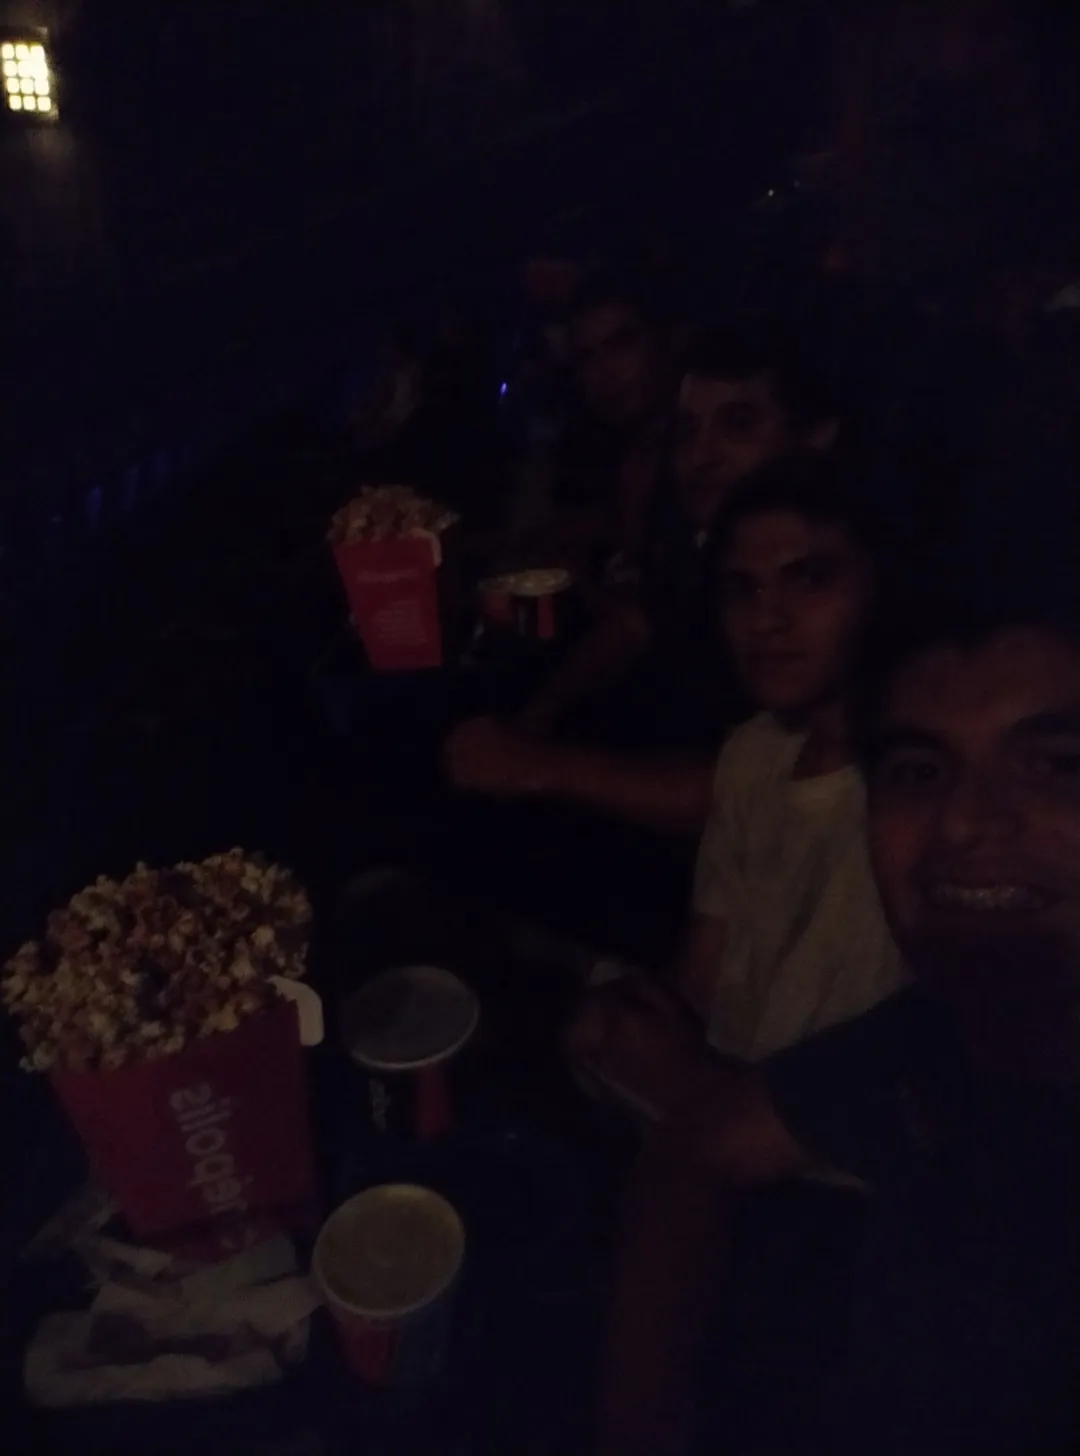
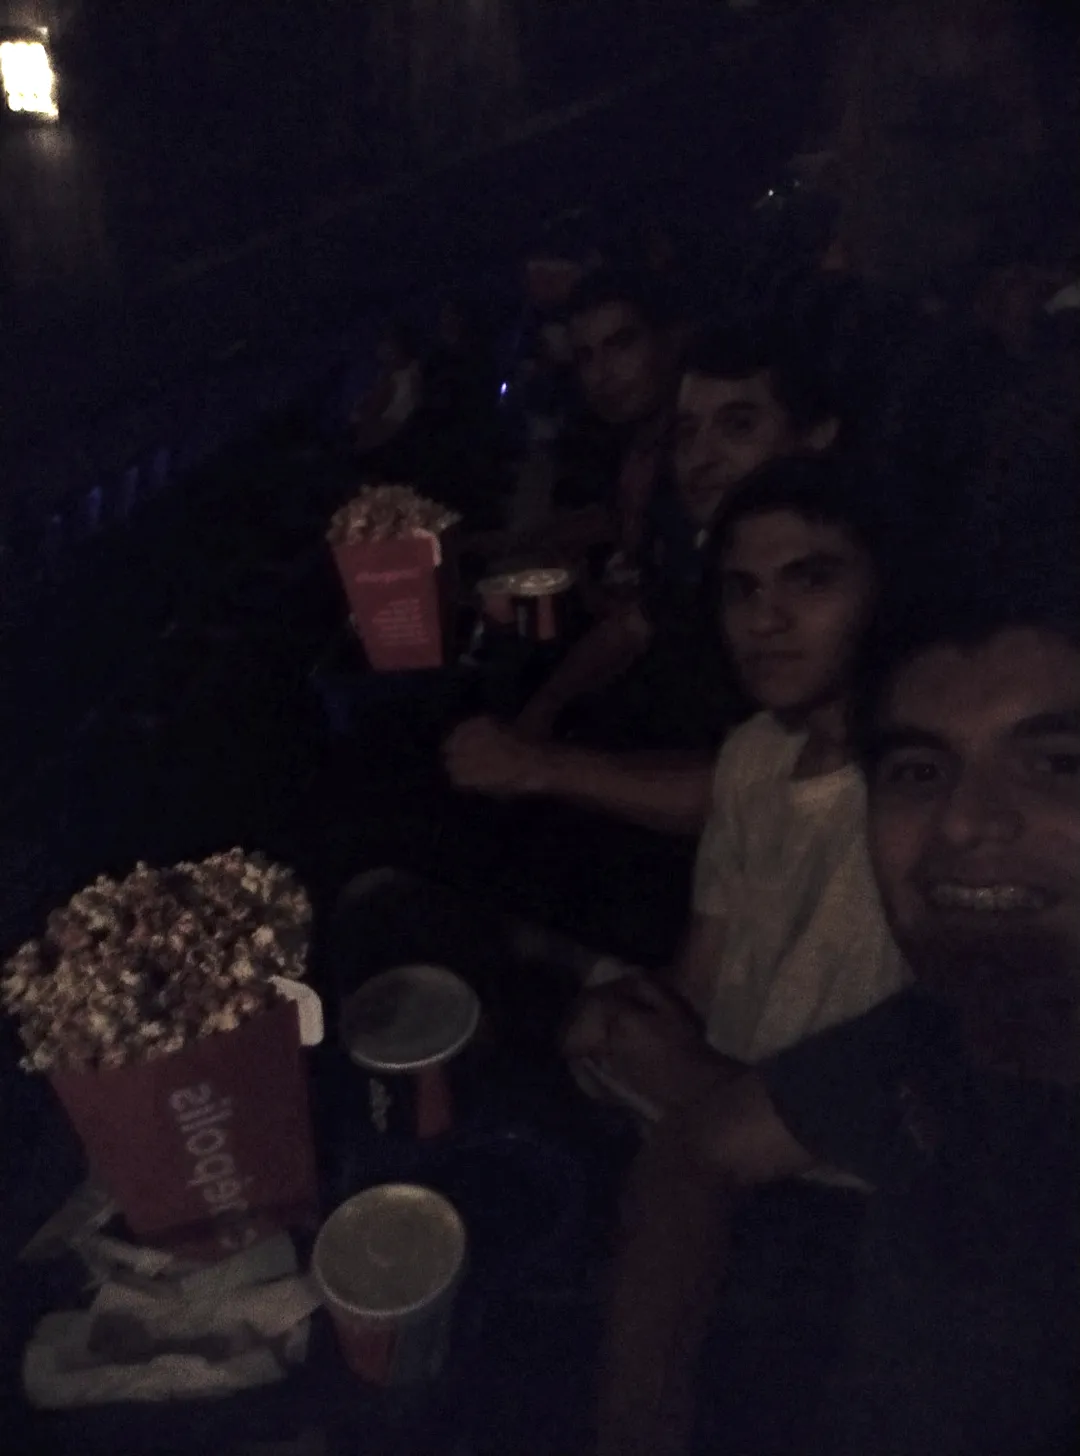
feat: ordenar el recorrido en capítulos narrativos con cierre en la U

diff --git a/src/data/guion.ts b/src/data/guion.ts
@@ -9,25 +9,34 @@ export type Escena =
 // El orden de este arreglo es el orden del recorrido.
 // Editar AQUÍ no requiere tocar componentes.
 export const guion: Escena[] = [
+  // ── Capítulo 1: Celebrar juntos ──
   { tipo: "frase", texto: "Aunque hoy estés lejos, toda tu familia está contigo." },
-  { tipo: "foto", imagen: "foto-01.webp" },
-  { tipo: "foto", imagen: "foto-02.webp" },
+  { tipo: "foto", imagen: "foto-02.webp", frase: "Celebrar contigo siempre fue lo mejor." },
   { tipo: "foto", imagen: "foto-03.webp" },
-  { tipo: "foto", imagen: "foto-04.webp" },
-  { tipo: "foto", imagen: "foto-05.webp" },
-  { tipo: "frase", texto: "Cada recuerdo contigo es un regalo." },
   { tipo: "foto", imagen: "foto-06.webp" },
-  { tipo: "foto", imagen: "foto-07.webp" },
-  { tipo: "foto", imagen: "foto-08.webp" },
-  { tipo: "video", video: "video-01.mp4", poster: "video-01.webp" },
+  { tipo: "foto", imagen: "foto-04.webp", frase: "Tus tres hijos, siempre a tu lado." },
+  { tipo: "foto", imagen: "foto-05.webp" },
+
+  // ── Capítulo 2: Lo cotidiano ──
+  { tipo: "frase", texto: "Cada momento contigo es un regalo." },
+  { tipo: "foto", imagen: "foto-07.webp", frase: "Hasta una ida al cine contigo es una fiesta." },
   { tipo: "foto", imagen: "foto-09.webp" },
+  { tipo: "video", video: "video-01.mp4", poster: "video-01.webp" },
+
+  // ── Capítulo 3: Las aventuras ──
+  { tipo: "frase", texto: "Y cuántos caminos recorrimos juntos…" },
   { tipo: "foto", imagen: "foto-10.webp" },
-  { tipo: "frase", texto: "La distancia no borra lo que somos: tu familia." },
   { tipo: "foto", imagen: "foto-11.webp" },
   { tipo: "foto", imagen: "foto-12.webp" },
   { tipo: "foto", imagen: "foto-13.webp" },
   { tipo: "foto", imagen: "foto-14.webp" },
-  { tipo: "foto", imagen: "foto-15.webp", frase: "Gracias por tanto, papá." },
+
+  // ── Capítulo 4: La pasión que nos diste ──
+  { tipo: "frase", texto: "Y nos heredaste una pasión que nos une para siempre." },
+  { tipo: "foto", imagen: "foto-08.webp" },
+  { tipo: "foto", imagen: "foto-15.webp", frase: "Y dale U, papá. Gracias por tanto." },
+
+  // foto-01 (cine, muy oscura) quedó fuera del recorrido; el archivo sigue disponible.
   // Ajusta libremente: frases, orden y pies de foto (familiar: "mamá", "Cesar", "Steven", etc.).
 ];
 
